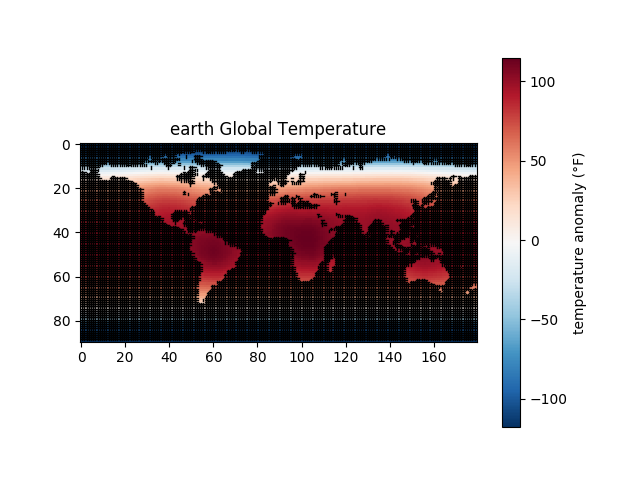
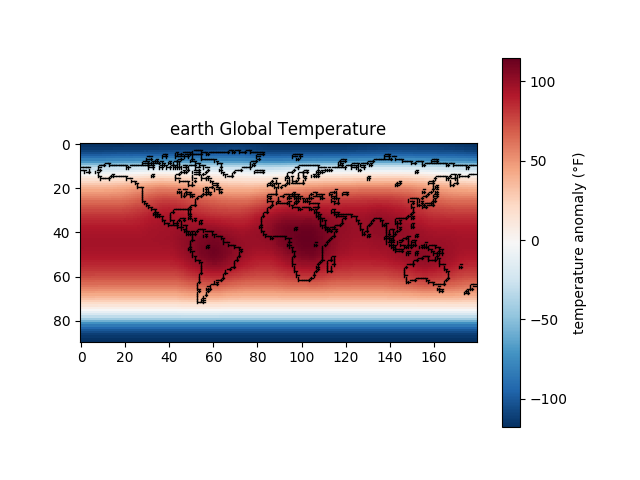
corrected bug in vis code mixing ocean and land

Changed region(s): [[0.125, 0.2812, 0.75, 0.7188], [0.5938, 0.375, 0.625, 0.4062]]

diff --git a/pyvisual/visualization_bm.py b/pyvisual/visualization_bm.py
@@ -57,7 +57,7 @@ def get_coast(surface_array):
     for i in range(yDim):
         for j in range(xDim):
             # skip ocean tiles - only look for land touching ocean
-            if surface_array[i, j] == 1:
+            if surface_array[i, j] == 0:
                 continue
             center = np.array([i, j])
 
@@ -86,7 +86,7 @@ def get_coast(surface_array):
                         x1 = center[1]
                         x2 = center[1] + 1
 
-                lines.add(((x1, x2), (y1, y2)))
+                    lines.add(((x1, x2), (y1, y2)))
     print("Number of lines: ", len(lines))
 
     return lines
